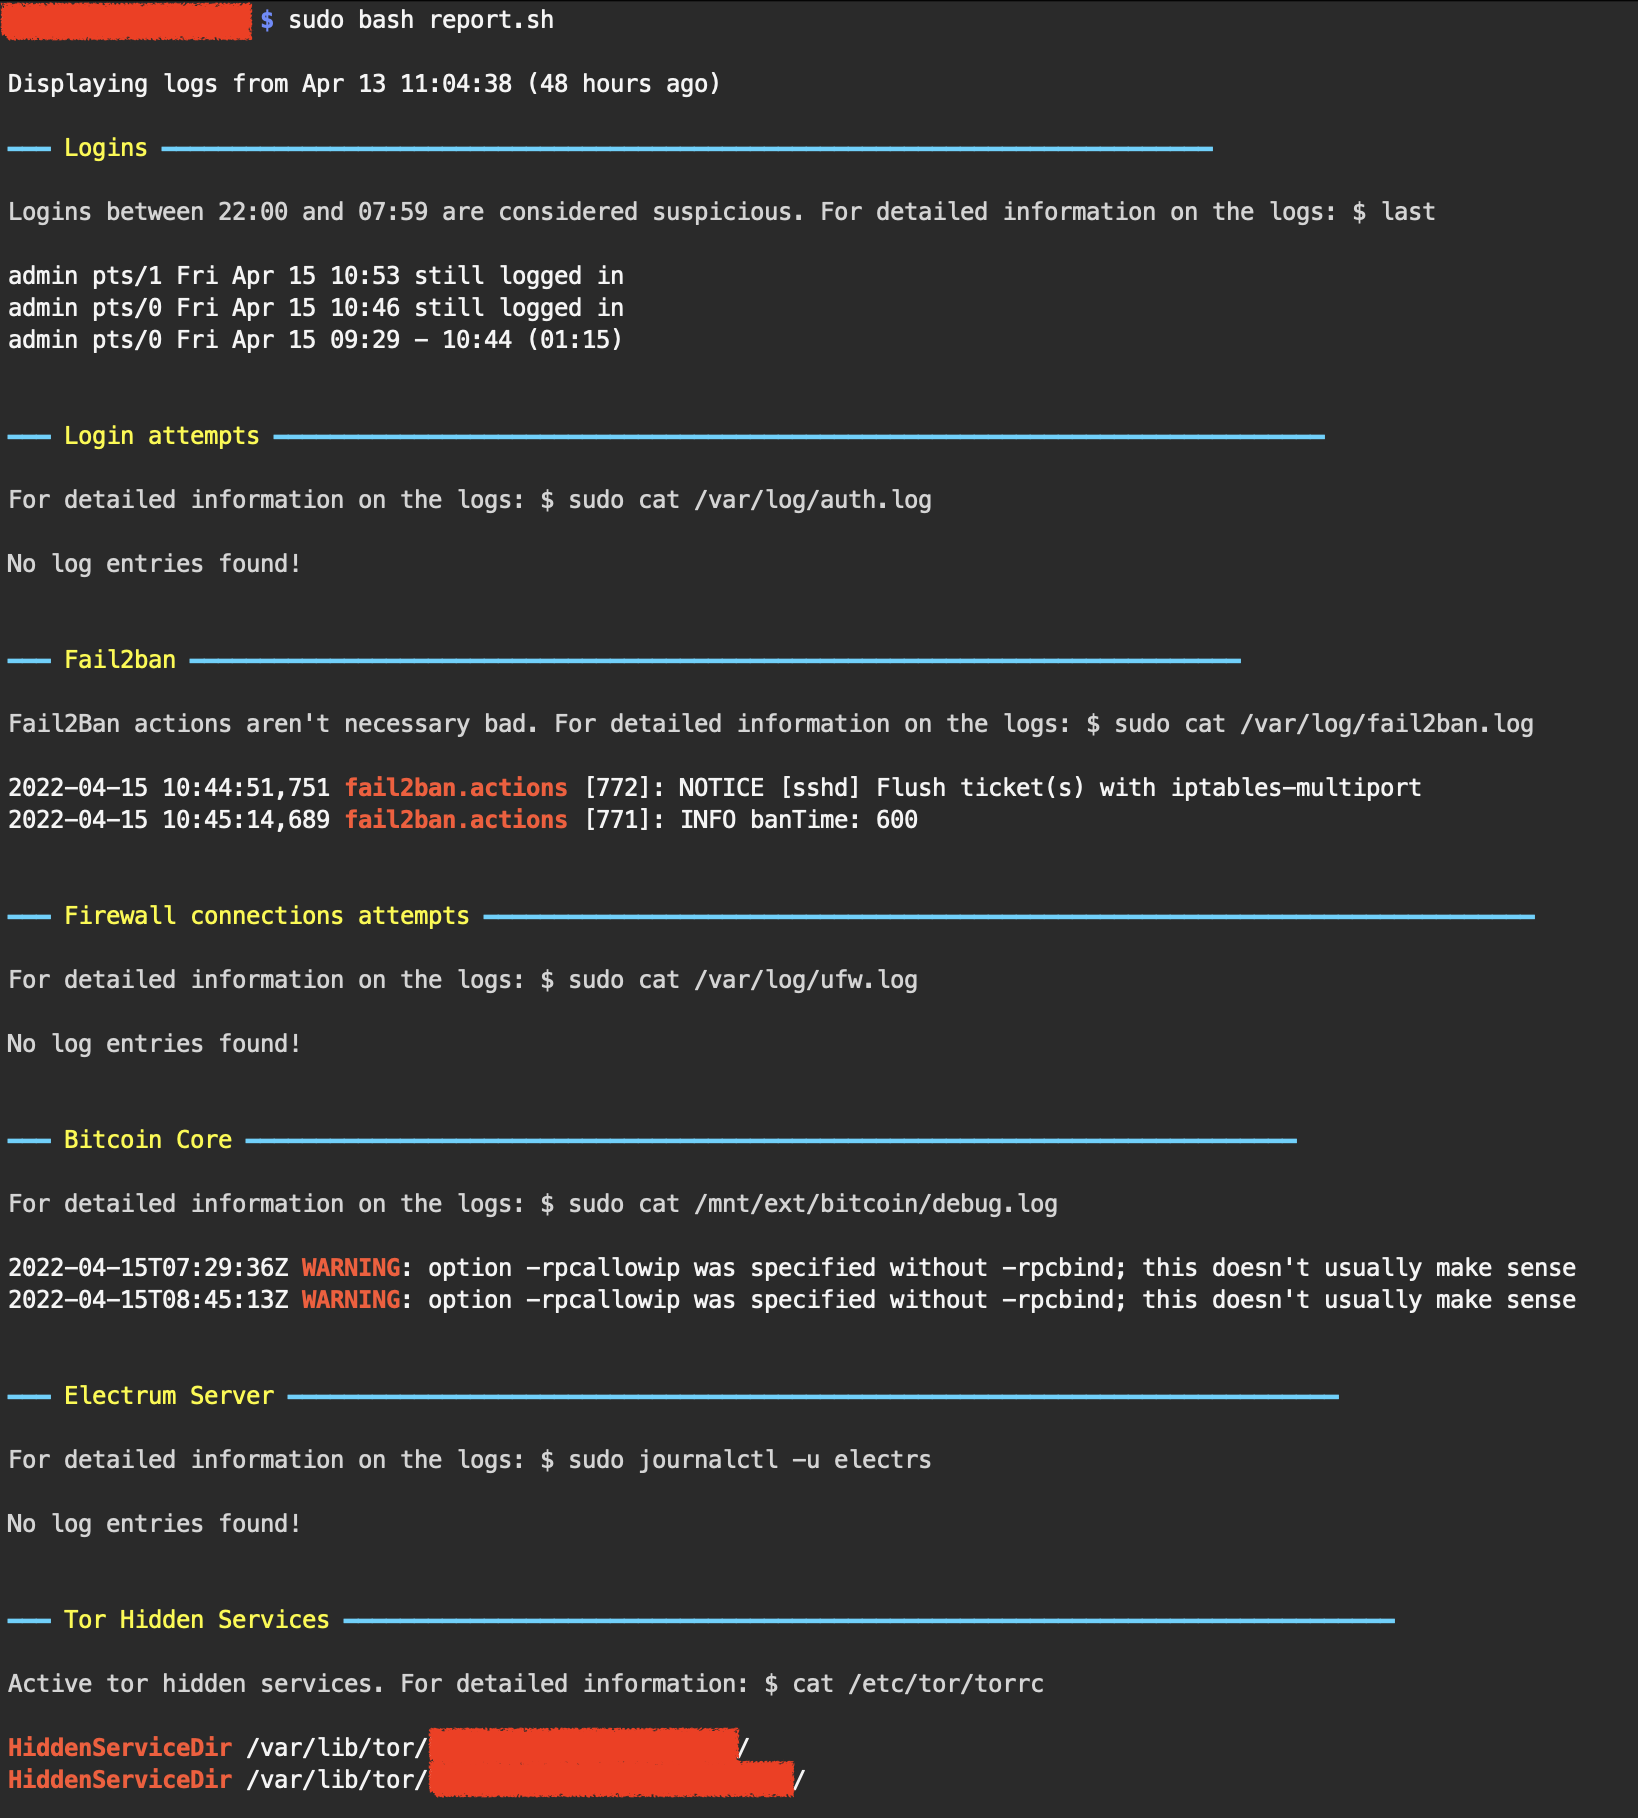
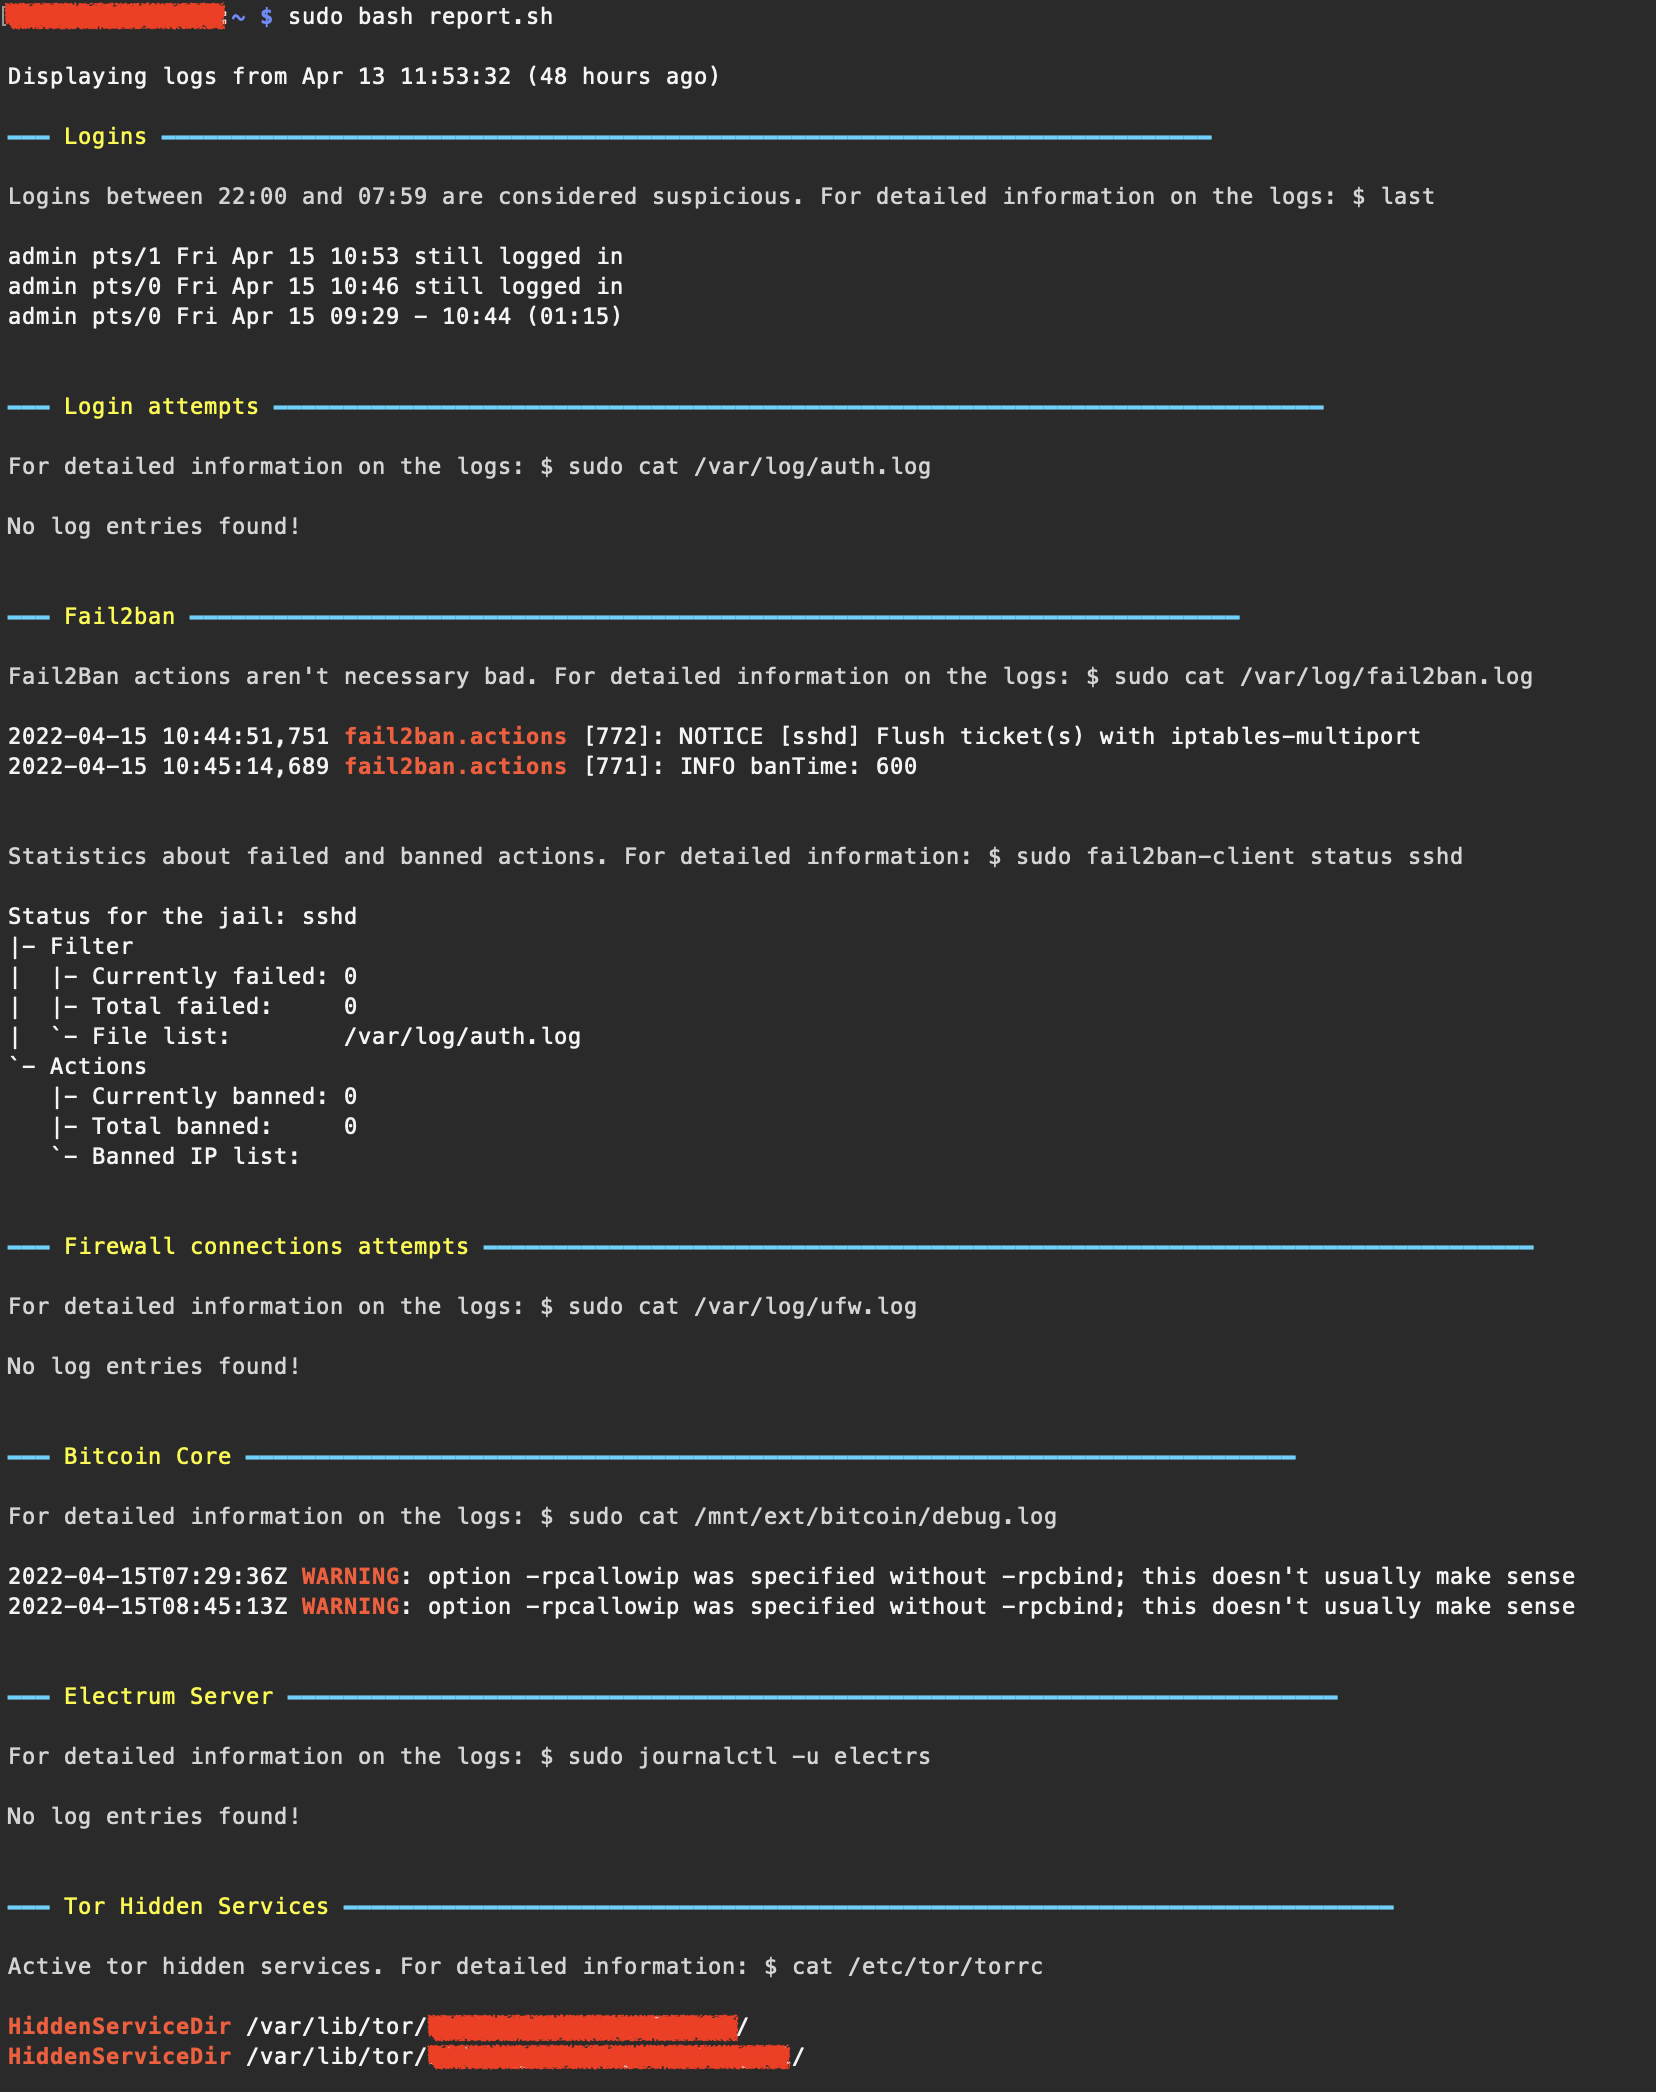
feat: fail2ban statistics
Extend fail2ban's summary with statistics about failed and banned actions

Changed region(s): [[0.0, 0.0, 0.9652, 0.7701], [0.0, 0.8009, 0.8407, 1.0], [0.9029, 0.308, 0.9341, 0.3388]]

diff --git a/README.md b/README.md
@@ -1,4 +1,4 @@
-Displays a summary (warnings and errors) of your raspibolt's environment.
+Displays a summary (warnings, errors, etc...) of your raspibolt's environment.
 
 # Contents
 
@@ -77,6 +77,12 @@ Command used to access the logs:
 
 ```
 $ cat /var/log/fail2ban.log
+```
+
+Additionally, statistics about failed and banned actions will be displayed:
+
+```
+$ sudo fail2ban-client status sshd
 ```
 
 ## Firewall connection attempts
